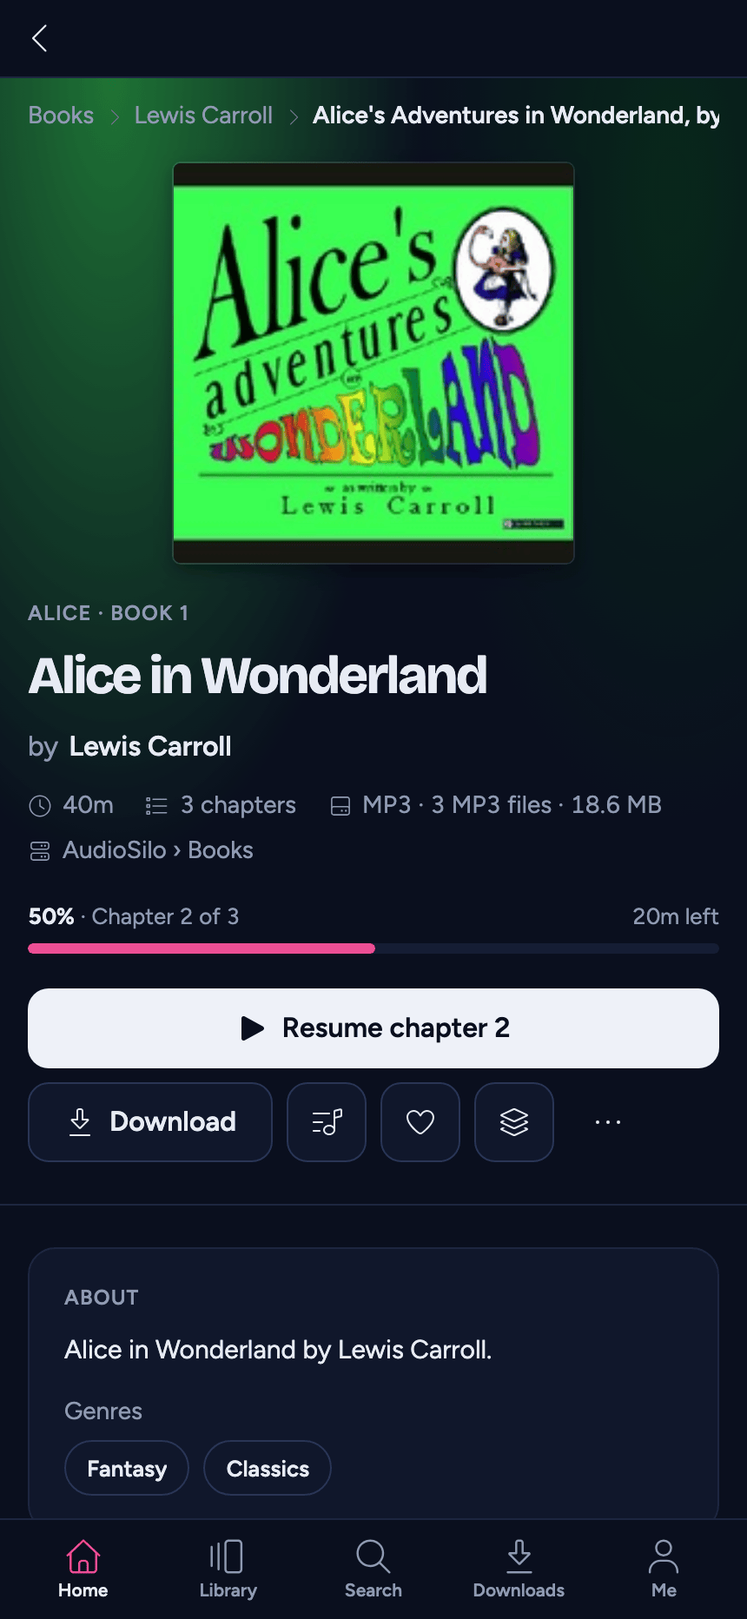
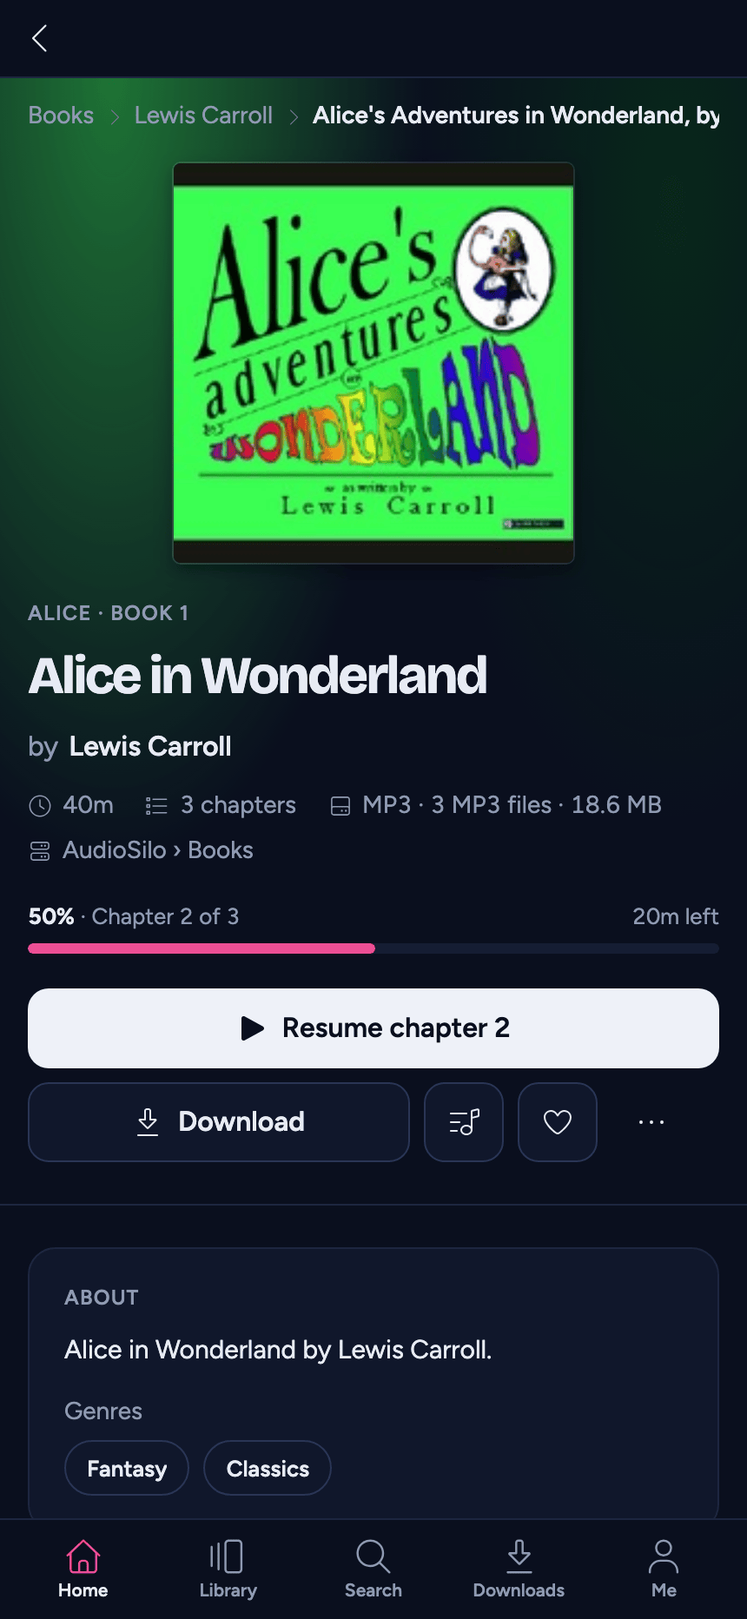
Docs for batch M: player fixes and CORS-mode media on web
Phone book page: Add to collection in More; Library Books: Clear and a chosen
genre or tag lead the chip row; the empty collection hint; the dock names a
chapterless book once; a failed start's toast and its reason; relative times
in the app's language on native; Voice boost for another server's stream.
Developer docs: CORS mode for cross-origin covers and audio (corsModeFor,
CoverImage), PlaybackStartError and playFailedToast, the placing guard, the
Hermes relative-time strings, Home shelf skeletons, the measured mini inset,
the bounded queue-drop read. Regenerated phone-book-detail and phone-you-stats.

diff --git a/docs-developers/frontend/testing.md b/docs-developers/frontend/testing.md
@@ -339,13 +339,13 @@ Co-located suites exist for:
 | Account and Settings | `src/components/account/account-model.test.ts` (the pairing countdown, `canRevoke`, `lastSeen`), `account-section.test.tsx`, `devices-section.test.tsx`, `pair-device-card.test.tsx`, `password-card.test.tsx`, `connections-section.test.tsx`, `use-api-keys-manager.test.tsx`, `use-sign-out.test.tsx`; `src/components/settings/settings-model.test.ts`, `settings-content.test.tsx` |
 | You | `src/components/you/you-model.test.ts`, `you-hub.test.tsx`; `stats/stats-model.test.ts`, `stats-format.test.ts`, `stats-section.test.tsx`, `listening-clock.test.tsx`; `year/year-model.test.ts`, `year-copy.test.ts`, `year-params.test.ts`, `story-model.test.ts`, `story-stage.test.tsx`, `use-story-player.test.tsx`, `use-share-card.test.tsx`, `share-card.test.ts`, `share-card.web.test.ts`, `year-probes.test.ts` (`findStoryYears`), `year-section.test.tsx`, `year-story-screen.test.tsx` |
 | Connect | `src/components/connect/connect-model.test.ts` (`repairPlan`, `readyLine`, `reconnectAddress`), `finish-connect.test.ts`, `connect-frame.test.tsx`, `connect-start.test.tsx`, `sign-in-step.test.tsx`, `ready-screen.test.tsx`, `use-ready-summary.test.tsx`, `connect-routes.test.tsx`, `route-ready.test.tsx`, `cover-patterns.test.ts`; `src/components/layout/reconnect-banner.test.tsx` |
-| Player UI | `src/components/player/sleep-timer-button.test.tsx`, `sleep-sheet-model.test.ts`, `grace-card.test.tsx`, `speed-button.test.tsx`, `speed-model.test.ts`, `effects-model.test.ts`, `effects-settings.test.tsx`, `end-credits-logic.test.ts`, `end-credits.test.tsx`, `book-ended-listener.test.tsx`, `seek-bar.test.tsx`, `seek-texture.test.ts`, `book-timeline.test.tsx`, `book-timeline-model.test.ts`, `transport-controls.test.tsx`, `undo-chip.test.tsx`, `use-time-left.test.tsx`, `player-shortcuts.test.ts`, `shortcuts-dialog.test.tsx`, `player-view.test.tsx` (the layouts), `player-parts.test.tsx`, `player-sheet-host.test.tsx` (one active host), `mini-player.test.tsx`, `companion/companion-model.test.ts`, `companion/companion-panels.test.tsx`, `companion/companion.test.tsx`, `companion/use-companion-data.test.tsx`, `end-of-book.test.ts`, `start-book.test.ts`, `end-credits-route.test.tsx`, `player-route.test.tsx`, `player-view-model.test.ts`, `place-sync.test.ts`, `playing-target.test.tsx`, `rating-stars.test.tsx`, `use-player-shortcuts.test.ts`, `use-playing-pins.test.ts`, `use-playing-segment.test.ts`, `companion/reveal-listener.test.tsx` (natural crossings only), `book-progress.test.tsx`, `transport.test.ts` (the shared previous/next and chapter-segment math of the full player and the docked bar), `use-listening-position.test.tsx`, `play-route.test.ts` (where a play or a jump goes), `use-book-rating.test.tsx` |
+| Player UI | `src/components/player/play-failed.test.ts` (the start-failure toast's reason), `sleep-timer-button.test.tsx`, `sleep-sheet-model.test.ts`, `grace-card.test.tsx`, `speed-button.test.tsx`, `speed-model.test.ts`, `effects-model.test.ts`, `effects-settings.test.tsx`, `end-credits-logic.test.ts`, `end-credits.test.tsx`, `book-ended-listener.test.tsx`, `seek-bar.test.tsx`, `seek-texture.test.ts`, `book-timeline.test.tsx`, `book-timeline-model.test.ts`, `transport-controls.test.tsx`, `undo-chip.test.tsx`, `use-time-left.test.tsx`, `player-shortcuts.test.ts`, `shortcuts-dialog.test.tsx`, `player-view.test.tsx` (the layouts), `player-parts.test.tsx`, `player-sheet-host.test.tsx` (one active host), `mini-player.test.tsx`, `companion/companion-model.test.ts`, `companion/companion-panels.test.tsx`, `companion/companion.test.tsx`, `companion/use-companion-data.test.tsx`, `end-of-book.test.ts`, `start-book.test.ts`, `end-credits-route.test.tsx`, `player-route.test.tsx`, `player-view-model.test.ts`, `place-sync.test.ts`, `playing-target.test.tsx`, `rating-stars.test.tsx`, `use-player-shortcuts.test.ts`, `use-playing-pins.test.ts`, `use-playing-segment.test.ts`, `companion/reveal-listener.test.tsx` (natural crossings only), `book-progress.test.tsx`, `transport.test.ts` (the shared previous/next and chapter-segment math of the full player and the docked bar), `use-listening-position.test.tsx`, `play-route.test.ts` (where a play or a jump goes), `use-book-rating.test.tsx` |
 | Library UI | `src/components/library/book-meta.test.ts`, `use-book-community.test.tsx`, `book-meta.render.test.tsx`, `book-tabs.test.ts`, `cover-frame.test.tsx`, `meta-gating.test.ts`, `entry-row.test.tsx`, `history-section.test.tsx`, `annotation-sections.test.tsx`, `download-control.test.tsx`, `transcode-note.test.tsx`, `book-cover.test.tsx`, `cover-pieces.test.tsx`, `cover-layout.test.ts`, `cover-wash.test.tsx`, `library-modes.test.ts`, `library-screen.test.tsx`, `use-queue-actions.test.tsx`, `tile-actions.test.tsx`, and under `books/` (`books-view`, `book-actions`, `list-columns`, `use-whole-library`), `collections/` (`collections-model`, `collection-dialogs`) and `modes/books-mode`; `src/components/player/use-play-book.test.tsx`; `src/components/layout/content-scope.test.tsx` |
 | Book page | `src/components/book/book-page-model.test.ts` (layout, primary action, chapter list, facts, Your listening), `book-details-model.test.ts`, `book-about.test.tsx`, `hero-actions.test.tsx`, `book-page.test.tsx` |
 | Bookmarks and notes | `src/api/bookmark-labels.test.ts`; `src/components/annotations/editor-model.test.ts` (what Save sends), `labels.test.ts`, `drift-marker.test.ts`, `use-book-place.test.ts`, `annotation-editor.test.tsx`, `annotation-rows.test.tsx`; `src/components/player/player-sheets.test.ts` (editor requests) |
 | Journal | `src/lib/listening-sessions.test.ts` (sessions, days), `use-day-label.test.tsx`, `use-infinite-queries.test.tsx`; `src/components/journal/merge-model.test.ts`, `diary-model.test.ts` (days, bar colours, drift matching), `journal-model.test.ts`, `use-journal-sources.test.tsx`, `journal-screen.test.tsx`, `journal-route-cold.test.tsx`, `export-collect.test.ts`, `export-format.test.ts`, `export-save.test.ts`, `export-save.web.test.ts`, `export-actions.test.tsx`, `use-journal-export.test.tsx` |
-| UI primitives | `src/components/ui/` - `animated-pressable`, `badge`, `breadcrumbs`, `button`, `confirm-dialog`, `cover`, `dialog`, `empty-state`, `icon-data` (validates every vendored SVG glyph), `input`, `notice`, `overlay` (root insets, `withFlatStyle`), `overlay-host`, `popover`, `progress-bar`, `progress-ring`, `row-surface`, `section-header`, `select`, `sheet`, `skeleton`, `slider`, `use-slider-control`, `switch`, `tabs`, `text`, `time-stepper`, `toast`, `touch-target`, `toggle-group` |
-| `src/lib` helpers | `account`, `alpha-sections`, `app-resume`, `auth-failure`, `base-url`, `batch-loader` (windows, chunks by count and size, per-chunk failures), `by-position`, `chapter-label`, `client-id`, `clipboard`, `content-key`, `cover-tint`, `dedup`, `fnv1a`, `format`, `hhmm`, `keyboard`, `keyboard-lift`, `known-servers`, `layout`, `map-limit`, `monogram`, `names`, `native-intent` (app links keep their encoding), `network`, `pairing`, `paths`, `progress-view`, `published`, `register-sw.web`, `rnw-button-fix`, `root-stack`, `same-origin`, `scroll-memory`, `secure-store`, `serial-queue`, `series-orderings`, `server-address` (the pick rule, `mergeAddresses`), `share`, `storage-migration`, `support`, `ticker`, `use-debounced-value`, `use-dom-id`, `use-latest`, `use-now`, `utils`, `when-active` |
+| UI primitives | `src/components/ui/` - `animated-pressable`, `badge`, `breadcrumbs`, `button`, `confirm-dialog`, `cover`, `cover-image.web` (the CORS attribute only cross-origin, `onError`), `dialog`, `empty-state`, `icon-data` (validates every vendored SVG glyph), `input`, `notice`, `overlay` (root insets, `withFlatStyle`), `overlay-host`, `popover`, `progress-bar`, `progress-ring`, `row-surface`, `section-header`, `select`, `sheet`, `skeleton`, `slider`, `use-slider-control`, `switch`, `tabs`, `text`, `time-stepper`, `toast`, `touch-target`, `toggle-group` |
+| `src/lib` helpers | `account`, `alpha-sections`, `app-resume`, `auth-failure`, `base-url`, `batch-loader` (windows, chunks by count and size, per-chunk failures), `by-position`, `chapter-label`, `client-id`, `clipboard`, `content-key`, `cors-mode` (`corsModeFor`), `cover-tint`, `dedup`, `fnv1a`, `format`, `hhmm`, `keyboard`, `keyboard-lift`, `known-servers`, `layout`, `map-limit`, `monogram`, `names`, `native-intent` (app links keep their encoding), `network`, `pairing`, `paths`, `progress-view`, `published`, `register-sw.web`, `rnw-button-fix`, `root-stack`, `same-origin`, `scroll-memory`, `secure-store`, `serial-queue`, `series-orderings`, `server-address` (the pick rule, `mergeAddresses`), `share`, `storage-migration`, `support`, `ticker`, `use-debounced-value`, `use-dom-id`, `use-latest`, `use-now`, `utils`, `when-active` |
 | Generators (Node, not jest) | `scripts/gen-tokens.test.mjs` |
 
 The shared test helpers live outside that list, in `src/testing/`: the

diff --git a/docs-developers/frontend/book-page.md b/docs-developers/frontend/book-page.md
@@ -17,7 +17,7 @@ draw. The user-facing tour is [A book's page](/users/listening/book-page).
 | `book-page-model.ts` | Pure: `bookPageLayout`, `titleScale`, `heroSubtitle`, `primaryAction` / `primaryLabel`, `chapterList`, `rowAt`, `timelineStarts`, `placeLine`, `heroEyebrow`, `bookFacts`, `startedAt`, `listeningFigures` |
 | `book-tab-panel.tsx` | `BookTabPanel`: the active tab's panel (the tab row is the page's) |
 | `book-hero.tsx` | `BookHero`: the `CoverWash`, crumbs slot, eyebrow, title, subtitle, byline, facts, the place (or the finished badge and the stars), then the actions and footer slots |
-| `hero-actions.tsx` | `HeroActions`: the primary button, `DownloadControl`, the Up next menu, favourite, Add to collection, and `BookActionsMenu` with `omit` |
+| `hero-actions.tsx` | `HeroActions`: the primary button, `DownloadControl`, the Up next menu, favourite, Add to collection (in the menu when stacked), and `BookActionsMenu` with `omit` |
 | `book-crumbs.tsx` | `BookCrumbs`: the library, each folder above the book (links), the book's own folder or file name |
 | `book-chapters-tab.tsx` | `BookChaptersTab`: "The whole book" (`BookTimeline` + legend + axis) and the rows |
 | `book-details-tab.tsx` + `book-details-model.ts` | `BookDetailsTab`: the playback notice, the files table, the path; `fileRows`, `visibleFiles`, `playbackMode`, and the About card's `aboutContent`, `labelGroups` and `languageName` |
@@ -100,8 +100,10 @@ Both ways to play go through the app's one play path, `usePlayBook`
   (`seekBook`, or `goToTrack`) and plays on, or starts this book there in place
   (`startBookInPlace`).
 
-It rejects when the book can't start, and the page toasts
-`library.bookActions.playFailed`.
+It rejects when the book can't start (a `PlaybackStartError`, see
+[Playback](playback.md)), and the page toasts through `playFailedToast`:
+`library.bookActions.playFailed`, with the reason (the server can't be reached, or
+the audio didn't load) as the description.
 
 `HeroActions` lays the row out after the primary:
 
@@ -110,8 +112,8 @@ It rejects when the book can't start, and the page toasts
 | `DownloadControl` | - | an outline button per state: Download for offline, "N% · Cancel" with a `ProgressRing`, **Downloaded** (a menu with the size and Remove download), Retry download; disabled where this device can't keep the book |
 | Up next menu | `queue` | Play next (at position 0, with an Undo that puts it back where it was); Add to the end / Remove from Up next (`useQueueActions`) |
 | Favourite | - | ink, never pink |
-| Add to collection | `collections` | the book menu's dialog |
-| `BookActionsMenu` | its items' own | `omit={['play', 'queue', 'collect', 'download']}` leaves Mark as finished / not finished and More in this series; renders nothing when that leaves no item. For an admin whose book has generated characters or recaps it adds **Regenerate characters and recaps** (`extra`), then each active [player module's](state-and-data.md#player-modules-srcmodules) `bookActions` (none yet) |
+| Add to collection | `collections`, not stacked | the book menu's dialog; when stacked it is the menu's own item instead |
+| `BookActionsMenu` | its items' own | `omit` (`MENU_OMIT`, `['play', 'queue', 'collect', 'download']`) leaves Mark as finished / not finished and More in this series; stacked it keeps Add to collection too (`MENU_OMIT_PHONE` drops `'collect'`); renders nothing when that leaves no item. For an admin whose book has generated characters or recaps it adds **Regenerate characters and recaps** (`extra`), then each active [player module's](state-and-data.md#player-modules-srcmodules) `bookActions` (none yet) |
 | Generate characters and recaps | `useGenerate`'s `offer === 'generate'` | an outline button after the others (its own row when stacked), for an admin a Bridge can generate for (below) |
 
 **Generating characters and recaps** (Bridge Phase 1a, `src/components/bridge/`)
@@ -172,9 +174,10 @@ chapters found in the narration appear. The companion's empty Who's who and
 Story so far mount `GenerateOffer`, the same button and status.
 
 When the hero is stacked (under 600 measured), the primary takes its own row and the
-rest stay on **one** row: the download control gets `short` ("Download", just "Cancel"
-while it runs, its words ending in "..." rather than wrapping), and the menu opens as a
-sheet. The footer holds `DownloadProgress`, `GenerateStatus`, `GenerateCovered` (only while
+rest stay on **one** row: Add to collection moves into the menu, so the download slot
+(`flex-1`) takes the room the icon buttons leave, enough for its word on a phone; the
+download control gets `short` ("Download", just "Cancel" while it runs, its words ending
+in "..." rather than wrapping), and the menu opens as a sheet. The footer holds `DownloadProgress`, `GenerateStatus`, `GenerateCovered` (only while
 `covered`) and `TranscodeNote`.
 
 ## The tabs

diff --git a/docs-developers/frontend/playback.md b/docs-developers/frontend/playback.md
@@ -84,6 +84,14 @@ points:
 - The session token is already in the stream URL (`?token=` - see
   [State & data](state-and-data.md)), so the browser's own Range requests
   (seek/scrub) authenticate without headers.
+- **Another origin's stream loads in CORS mode.** Before every `src` (a load, a
+  file skip, the `swapTo` element) the engine sets the element's `crossOrigin`
+  from `corsModeFor` (`src/lib/cors-mode.ts`): `'anonymous'` for an http(s) URL
+  on another origin than the page, none for the player's own origin at `/web`,
+  the service worker's `_offline/` copies, `blob:` and `data:`. The server's
+  `cors_origins` grant that load, which ignores its
+  `Cross-Origin-Resource-Policy` (server#201;
+  [CORS](../server/api/index.md#cors)).
 - The **Media Session API** wires lock-screen/notification transport: metadata
   per track plus `play`, `pause`, `seekbackward`, `seekforward` handlers using
   the configured jump intervals. Those seeks go back **through the store**
@@ -93,6 +101,18 @@ points:
   gesture (a cold `/player` deep link) rejects with `NotAllowedError`; the engine
   settles its snapshot on `paused` and rethrows it as `AutoplayBlockedError`
   (`types.ts`), which the store's `startEngine` catches.
+- **A source that failed is a `PlaybackStartError('audio')`.** `playElement`
+  reads a `NotSupportedError` ("no supported sources"), or an `AbortError` from
+  an element that has errored, as a failed source: it settles the snapshot on
+  `error` and throws `PlaybackStartError` (`types.ts`) with reason `audio`. An
+  `AbortError` from a healthy element is a `play()` superseded by a pause or the
+  next source, so nothing is thrown.
+- **A load ignores its own first `timeupdate`.** Setting `src` queues a
+  `timeupdate` at `currentTime` 0 before any metadata. The engine marks the
+  element `placing` until `loadedmetadata` has made the start seek (or it fires
+  `seeked`) and ignores its `timeupdate`s meanwhile, so the snapshot keeps the
+  load's position; a source that then fails keeps it too (the place Retry
+  starts from), never the dead element's 0:00.
 - **A file advance is not a pause.** The element fires `pause` just before `ended`
   at a file's natural end; when another file follows, the engine ignores it (the
   store keeps its intent through the next file's load), so a chapter sleep timer
@@ -102,7 +122,8 @@ points:
 - Auto-rewind on resume: `play()` rewinds by up to `autoRewindMax` seconds
   scaled by how long the pause lasted.
 - **Voice boost** routes the element through one lazily-built Web Audio compressor
-  where the browser allows it (never Safari, same-origin sources only) - see
+  where the browser allows it (never Safari; only a source Web Audio can hear:
+  same-origin, or another origin's loaded in CORS mode) - see
   [Smart speed and Voice boost](audio-effects.md#web-one-web-audio-graph).
 - Every element listener is guarded by an `active()` check so a second element
   being buffered by `swapTo` can't drive the snapshot until the switch commits.
@@ -437,10 +458,21 @@ behaviours it gained, each with its own regression tests:
   listener somewhere they have never been. The spoiler gates wait it out through
   `selectPlacedBookKey` (`use-listening-position.ts`); without it, switching books
   could reveal the new book's characters by the old book's position;
-- **`startEngine`** (the play step of `playBook`/`toggle`/`retry`) catches only
+- **`startEngine`** (the play step of `playBook`/`toggle`/`retry`) treats
   `AutoplayBlockedError` - a browser refusing `play()` without a user gesture (a
-  cold `/player` deep link) - clears the play intent so the watchdog can't turn
-  it into `error`, and settles on `paused`;
+  cold `/player` deep link) - as a pause: it clears the play intent so the
+  watchdog can't turn it into `error`, and settles on `paused`. Every other
+  failure rejects as a **`PlaybackStartError`** saying why (`startFailure`):
+  `offline` when the loaded book streams from a server known to be unreachable
+  (`isReachable`; never for a downloaded book), else the engine's own reason
+  (the web engine's `audio`), else `unknown`, with the book's `connectionId`.
+  `playBook` rejects with it, and every start's caller toasts through
+  `playFailedToast` (`src/components/player/play-failed.ts`: the caller's title,
+  by default `library.bookActions.playFailed`, with the reason as the
+  description, `player.startFailed.offline` naming the server or
+  `player.startFailed.audio`; no description for `unknown`). `toggle` and
+  `retry` never reject (`startLoadedEngine` logs instead): the error state
+  already shows Retry and its error line;
 - the store registers **`onRemoteSeek`** on the engine, so the OS media controls'
   seeks go through `seekInTrack` and lower the resume floor and save like any other
   seek (web);

diff --git a/docs-users/listening/browsing.md b/docs-users/listening/browsing.md
@@ -84,7 +84,7 @@ If the Library has no library to show because a server didn't answer, it says "C
 Every book in the library, as a cover grid or a list:
 
 - **Filters** along the top: **Not started**, **In progress** and **Finished** (each with a count of how many books it would show), **Downloaded** (on this device), and a length: **Under 5 h**, **5 to 15 h** or **Over 15 h**. **Clear** takes them all off.
-- **Genre** and **Tag**, after the other filters, when a book in the library has one. Each opens a list of the library's genres (or tags) with how many books each would show, plus **Any genre** (**Any tag**) to drop it; the chip then names your pick (*"Fantasy"*). Capitals don't matter: "Sci-Fi" and "sci-fi" are one tag. Tapping a genre or tag on a [book's page](book-page.md#about-this-book) opens this view with it chosen.
+- **Genre** and **Tag**, after the other filters, when a book in the library has one. Once any filter is on, **Clear** moves to the front of the row, followed by the genre or tag you chose, so both stay in view on a narrow screen. Each opens a list of the library's genres (or tags) with how many books each would show, plus **Any genre** (**Any tag**) to drop it; the chip then names your pick (*"Fantasy"*). Capitals don't matter: "Sci-Fi" and "sci-fi" are one tag. Tapping a genre or tag on a [book's page](book-page.md#about-this-book) opens this view with it chosen.
 - **Sort** by **Recently added**, **Title**, **Author** or **Length**. Sorted by title, the books are grouped under letter headings, with an **A to Z** rail for jumping straight to a letter. A leading "The", "A" or "An" is skipped and accented letters file under their plain letter (*Émile* under E), and a book with no title is shown, and sorted, by its folder's name.
 - **Grid or list**. Your choice is remembered on that device, and the same choice applies to collections and Favourites. On a tablet or computer the list has columns for the narrator, the length and your progress.
 
@@ -145,7 +145,7 @@ Collections are lists of books you put together yourself: "Road trip", "For the 
 
 Collections belong to a server rather than to one library, so in this section the picker chooses a **server**.
 
-To add a book, open its [book menu](#the-book-menu) and choose **Add to collection...**. The dialog lists your collections, so you can add the book to several at once, take it out of one, or **Create and add** a new one there and then.
+To add a book, open its [book menu](#the-book-menu) and choose **Add to collection...**, or use **Add to collection** on its [page](book-page.md#listening-and-the-buttons). The dialog lists your collections, so you can add the book to several at once, take it out of one, or **Create and add** a new one there and then. A collection with nothing in it yet says *"Nothing in this collection yet"* and reminds you of the same two ways in.
 
 ![A collection's page: its name, description and total length, the owner's buttons, and its books](/img/screenshots/web-player/collection.png)
 

diff --git a/docs-developers/contributing/documentation.md b/docs-developers/contributing/documentation.md
@@ -78,6 +78,7 @@ mappings:
 | The end of a book, what plays next | [frontend/end-of-book.md](../frontend/end-of-book.md) + `/users/listening/end-of-book`, `/users/listening/up-next`, the Up next and downloads settings in `/users/listening/settings` |
 | The sleep timer | [frontend/sleep-timer.md](../frontend/sleep-timer.md) + `/users/listening/sleep-timer`, the Sleep settings in `/users/listening/settings` |
 | Playback engines / native module | [frontend/playback.md](../frontend/playback.md) (+ `/users/listening/playback` for lock-screen and headphone behaviour) |
+| How the web loads a server's covers and audio (`CoverImage`, `src/lib/cors-mode.ts`, the `<audio>` element's `crossOrigin`; server `cors`, `Cross-Origin-Resource-Policy`) | [frontend/playback.md](../frontend/playback.md#web-engine-servicewebts) + [overview.md](../frontend/overview.md#styling-conventions) (`CoverImage`) + [audio-effects.md](../frontend/audio-effects.md#web-one-web-audio-graph) (what Voice boost can route) + [api/index.md CORS](../server/api/index.md#cors) + [auth-and-security.md](../server/auth-and-security.md#transport-hardening) + [cross-repo-contract.md §12](../architecture/cross-repo-contract.md#12-cors-for-web-development) (after the workspace `CROSS-REPO.md` §12) |
 | Smart speed, Voice boost, time saved (`effects.ts`, `time-saved.ts`, `effects-settings.tsx`, the Android `effects/` processors, `VoiceBoostTap.swift`, `VoiceBoostDSP.swift`) | [frontend/audio-effects.md](../frontend/audio-effects.md) (+ [frontend/book-page.md](../frontend/book-page.md) for `smartSpeedSaved`) + `/users/listening/full-player` (Smart speed and Voice boost), the Playback settings in `/users/listening/settings`, the Your listening row in `/users/listening/book-page` + the `web-player/phone-speed-sheet.png`, `settings.png` and `phone-settings.png` screenshots |
 | CarPlay, Android Auto (`src/car/`, the module's car code, `plugins/withCarPlay.js`), the after-first-unlock token store, the iOS widgets and Live Activity (`src/widgets/`) | [frontend/native-integrations.md](../frontend/native-integrations.md) (+ [testing.md](../frontend/testing.md#native-checks) for how to run them) + `/users/listening/in-the-car`, `/users/listening/mobile-apps` (Availability, In the car, widgets), `/users/listening/sleep-timer` (the Live Activity). The web can't show these surfaces: device screenshots, when there are any, are added by hand to the manifest |
 | Connection ids, the identity migration (`src/lib/connection-id.ts`, `src/lib/identity-migration.ts`, a new document keyed by a connection id) | [frontend/state-and-data.md](../frontend/state-and-data.md#connection-identity-server_iduser_id) (+ `ID_DOCUMENTS` when a new document is keyed by a connection id) |

diff --git a/docs-developers/architecture/cross-repo-contract.md b/docs-developers/architecture/cross-repo-contract.md
@@ -152,7 +152,8 @@ client side in [State & data](../frontend/state-and-data.md#bookmarks-notes-and-
 header-only (`bearerToken(r, false)`), so tokens never ride the query string where
 they could leak into access logs or Referer headers.
 **Frontend:** `client.ts` `mediaTokenQuery()` → `coverUrl()`/`streamUrl()`. Native
-also sends the header (belt-and-braces); web relies solely on the query param.
+also sends the header (belt-and-braces); web relies solely on the query param (a web
+cover is a plain `<img>`, `CoverImage`, which can't send one).
 
 **Cover thumbnails** ride the same path: `GET /libraries/{id}/cover?size=160|320|640`
 (capability `cover_sizes`) is a JPEG of the same art with an `ETag` of size + art
@@ -436,12 +437,23 @@ For an allowed origin the server also allows `Range` and exposes
 `Retry-After` and the OPML export's `X-OPML-*` counts (Phase 2d-2), with what
 an older server means for the player: [CORS](../server/api/index.md#cors).
 
-Covers and audio are no-cors loads, which CORS never covers. With
+**Media for a player on another site.** The web player loads another origin's
+covers, artwork and audio in CORS mode: `corsModeFor` (`src/lib/cors-mode.ts`)
+gives `crossOrigin="anonymous"` for an http(s) URL cross-origin to the page, and
+nothing for the page's own origin (the player at `/web`), the service worker's
+`_offline/` copies, `blob:` and `data:`. `CoverImage` (`cover-image.web.tsx`, a
+plain `<img>`) and the `<audio>` element (`service.web.ts`, set before every
+`src`) apply it. The server's `cors` middleware answers an allowed `Origin` on
+media as on any route (`206` and `401` included), so `cors_origins` governs
+them, and a CORS-mode stream is one Web Audio can hear (Voice boost). CORS mode
+ignores CORP, so this also works against a server older than 2.4.1. An older
+player loads media no-cors, which CORS never covers: for it, with
 `cors_origins` set, every authenticated media answer is
-`Cross-Origin-Resource-Policy: cross-origin` (from 2.4.1), so a player on
-another site shows covers and plays audio; an older server's `same-site` makes
-the browser block its covers. Media takes only an explicit token, never a
-cookie, which is why that is safe
+`Cross-Origin-Resource-Policy: cross-origin` (from 2.4.1); before that a
+server's `same-site` made the browser block the covers. CORP stays
+`cross-origin` until the server narrows it once CORS-mode players have shipped
+(server#201's second half). Media takes only an explicit token, never a
+cookie, which is why both are safe
 ([Transport hardening](../server/auth-and-security.md#transport-hardening)).
 
 **A change requires:** nothing structural - just remember self-signed TLS (the

diff --git a/docs-developers/server/api/index.md b/docs-developers/server/api/index.md
@@ -589,7 +589,8 @@ The two lists are the consts `corsAllowHeaders` and `corsExposeHeaders`
 (`internal/api/middleware.go`). `Range` is there for a script's fetch of a
 stream with the `Authorization` header: the player's episode probe sends
 `Range: bytes=0-0` with its token, so cross-origin it is always preflighted
-(an `<audio>` element's own seeks are no-cors and need nothing). The exposed
+(an `<audio>` element's own Range requests come from the browser and are
+never preflighted). The exposed
 headers are `Retry-After` where a route sends one (the discovery and OPML
 budgets, a busy transcode, an episode on its way; the general rate limit and
 the request timeout send none) and the OPML export's counts, so a
@@ -597,11 +598,21 @@ cross-origin web player reads them as the `/web` player and native apps
 always could. A denied or absent origin gets no CORS header but `Vary`, and a
 server with `cors_origins` unset gets none at all.
 
-CORS never covers an `<img>` cover or an `<audio>` stream: those are no-cors
-requests with no `Origin`. What lets a player on another site load them is the
-media answer's `Cross-Origin-Resource-Policy`, which is `cross-origin` on every
-authenticated media answer once `cors_origins` is set (from 2.4.1; before, it was
-`same-site` and the browser blocked the covers). See
+Covers and audio depend on how the player loads them. The web player loads
+another origin's covers, artwork and audio in **CORS mode**
+(`crossOrigin="anonymous"` on the `<img>` and the `<audio>` element, only when
+the URL is cross-origin to the page; server#201): the request carries
+`Origin`, and the server's CORS layer answers it on media like any other route
+(a `206` and a `401` included), so `cors_origins` decides whether a player on
+another site shows covers and plays audio, and Web Audio (Voice boost) can
+hear the stream. CORS mode ignores `Cross-Origin-Resource-Policy`. The player
+at `/web` is same-origin and sets no attribute. An older player loads them as
+no-cors requests with no `Origin`, which CORS never covers: what lets those
+load is the media answer's `Cross-Origin-Resource-Policy`, which is
+`cross-origin` on every authenticated media answer once `cors_origins` is set
+(from 2.4.1; before, it was `same-site` and the browser blocked the covers). It
+stays `cross-origin` until shipped players load in CORS mode, then the server
+can narrow it (server#201's second half). See
 [Transport hardening](../auth-and-security.md#transport-hardening). An older server exposes nothing, so
 the player falls back to the body's `retry_after_seconds` for an episode
 fetch and reads the export counts as unknown.

diff --git a/docs-developers/frontend/overview.md b/docs-developers/frontend/overview.md
@@ -475,7 +475,9 @@ on. The view is
 `labelOptions` (the genre or tag choices, each counted the same way, the chosen one
 kept even at 0; shown by `books/label-filter.tsx` as a picker chip opening a dialog,
 and only when a loaded book has a label or the URL names one, so an older server
-shows no new control),
+shows no new control; with any filter on, `BooksMode` leads the chip row with Clear
+and then the chosen genre or tag chip, the unchosen pickers staying at the end, and
+re-keys the row by the chosen kinds so it starts scrolled to its start),
 `sortBooks` (title order folds accents and skips a leading article; an untitled book sorts, and shows, by its folder name through `bookTitle`), `letterGrid`
 for the title sort's letter heads and A-Z rail, and `lengthBucket` (the `len`
 chips, which Home's Short listens shelf reuses). The
@@ -618,9 +620,17 @@ ones a contributor trips over first.
   rendered by the root `ShellToastHost`) and `RowSurface` / `PressableRow` (the
   quiet hairline list row; the book page's chapter rows use it too). A primitive
   that renders its own text node reuses `EYEBROW_CLASS` for the eyebrow style.
-  Also there: `Sheet`, `Stepper`, `TimeStepper`, `EmptyState`, `SectionHeader`
-  and `AnimatedPressable` (a `className`-aware `Pressable` with a reduce-motion
-  aware press-in scale). To add another reusables component, generate it into a
+  Also there: `Sheet`, `Stepper`, `TimeStepper`, `EmptyState`, `SectionHeader`,
+  `AnimatedPressable` (a `className`-aware `Pressable` with a reduce-motion
+  aware press-in scale) and `CoverImage` (`cover-image.tsx`): every cover, artwork
+  or backdrop image from a server goes through it (`Cover`, `CoverBackdrop`,
+  `DiscoveryArtwork`), never expo-image directly. On native it is expo-image as
+  before (its disk cache, `source.headers`, `blurRadius`); on the web
+  (`cover-image.web.tsx`) a plain `<img>` (cover fit, lazy, async decode, a fade
+  in over `transition` ms, keyed by its URI), because expo-image's web image takes
+  no `crossOrigin`: it sets `crossOrigin="anonymous"` for another origin's URL
+  (`corsModeFor`, see [the web engine](playback.md#web-engine-servicewebts)) and
+  sends no headers (server image URLs carry `?token=`). To add another reusables component, generate it into a
   scratch directory with the reusables CLI and port it (the CLI would overwrite
   our same-named files) - the steps are in the frontend `CLAUDE.md`.
 - **Overlays portal.** Dialog, AlertDialog, Select, Popover, DropdownMenu and

diff --git a/docs-developers/frontend/audio-effects.md b/docs-developers/frontend/audio-effects.md
@@ -10,7 +10,7 @@ No wire change: both are client-side, and "time saved" is kept on the device.
 | | Android | iOS | Web |
 |---|---|---|---|
 | **Smart speed** | every book: a silence-skipping `AudioProcessor` | not yet ([why](#why-smart-speed-isnt-on-iphone-yet)) | not offered |
-| **Voice boost** | every book: a compressor/limiter `AudioProcessor` after Sonic | every book: an `MTAudioProcessingTap` per item | Web Audio compressor, trim and limiter, never in WebKit-only browsers, same-origin sources only |
+| **Voice boost** | every book: a compressor/limiter `AudioProcessor` after Sonic | every book: an `MTAudioProcessingTap` per item | Web Audio compressor, trim and limiter, never in WebKit-only browsers, same-origin or CORS-mode sources only |
 
 ## The Voice boost preset
 
@@ -146,12 +146,15 @@ frames. Until then `smartSpeedApplies` is Android only, the iOS engine accepts a
   and never torn down; `ctx.resume()` runs synchronously in that gesture.
 - Each `<audio>` element gets **one** `MediaElementAudioSourceNode` for life (a second
   `createMediaElementSource` throws), made only while the context runs (a suspended one would
-  silence the book) and only for a **same-origin** source (`sameOrigin`,
-  `src/lib/same-origin.ts`): a cross-origin element routed through Web Audio without CORS
-  plays zeroes. So a book streamed from another signed-in server, or through the Metro dev
-  server talking to a remote API, plays unboosted (a downloaded copy, served from the page's
-  own origin under `/_offline/`, is boosted); a load of such a source onto an already-routed
-  element swaps in a fresh element.
+  silence the book) and only for a source Web Audio can hear (`routable`): a
+  **same-origin** one (`sameOrigin`, `src/lib/same-origin.ts`: the player at `/web`, a
+  downloaded copy under `/_offline/`) or another origin's loaded in **CORS mode**
+  (`corsModeFor`, `src/lib/cors-mode.ts`; see
+  [the web engine](playback.md#web-engine-servicewebts)). A cross-origin element routed
+  through Web Audio without CORS plays zeroes, so anything else (a `data:` URL) plays
+  unboosted, and a load of such a source onto an already-routed element swaps in a fresh
+  element. A book streamed from another signed-in server, or a dev build on Metro talking
+  to a remote API, is boosted when that server's `cors_origins` lists the page's origin.
 - Switching off reconnects each source straight to the destination; nothing is rebuilt.
 
 ## Time saved (`src/playback/time-saved.ts`)

diff --git a/docs-users/listening/book-page.md b/docs-users/listening/book-page.md
@@ -37,8 +37,8 @@ Beside it:
 - **Download for offline** keeps the book on this device: see [Downloading a book](offline-downloads.md#downloading-a-book).
 - **Up next**: **Play next** puts the book at the top of your [Up next](up-next.md) queue, and **Add to the end of Up next** queues it last (or **Remove from Up next**, if it's already there). A note confirms it, with **Undo**.
 - **The heart**, to make it a [favourite](browsing.md#favourites).
-- **Add to collection**, which opens the same dialog as the [book menu](browsing.md#the-book-menu).
-- **More** (**...**): **Mark as finished**, or **Mark as not finished** for a book you've finished, and **More in this series**. On a phone it opens as a sheet from the bottom.
+- **Add to collection**, which opens the same dialog as the [book menu](browsing.md#the-book-menu). On a phone it's in the **More** menu instead, which leaves room for the download button's words.
+- **More** (**...**): **Mark as finished**, or **Mark as not finished** for a book you've finished, and **More in this series** (on a phone, **Add to collection...** too). On a phone it opens as a sheet from the bottom.
 
 If you're an admin and your server has a [Bridge](../admin/bridge.md) that can write characters and recaps, a book the community lacks characters or recaps for gets one more button, **Generate characters and recaps**, after the others (on a phone, on a row of its own). It opens a confirmation with what it will read and cost (while the book's chapters are still being [found in the narration](../admin/generating-characters-and-recaps.md#detect-chapters-without-characters-and-recaps), it says so and holds back: generate once that has finished, since it reuses the transcription; it does the same while the book's characters and recaps are being [shared with the community](../admin/bridge.md#share-with-the-community)); while the Bridge works on it, its progress shows under the buttons, with **Cancel**. For a book whose characters and recaps were generated on your server, **Regenerate characters and recaps** is in the **More** menu instead. When the community already has both, there's no button: a line under the buttons says "The community already has characters and recaps for this book", and **See characters** opens the book's **Characters** tab. See [Generating characters and recaps](../admin/generating-characters-and-recaps.md#which-books-offer-it).
 

diff --git a/docs-developers/frontend/end-of-book.md b/docs-developers/frontend/end-of-book.md
@@ -74,7 +74,8 @@ player left open on it closes once the app is active. See
   place saved; it stays unfinished, in Up next, with its download), then `advanceTo(next)`; on success the
   player replaces the credits once the app is active (`navigateWhenActive`, and not
   at all if the credits were closed meanwhile), on failure the countdown stops and a
-  toast says "Couldn't start Oathbringer. Try again." Play now shows busy while the book
+  toast says "Couldn't start Oathbringer. Try again." (`playFailedToast`, with the
+  reason `advanceTo`'s `onError` was told as its description, when there is one). Play now shows busy while the book
   starts. The countdown counts only the time its ticks saw, so a suspended app
   doesn't wake to a countdown that already ran out, and the still-playing countdown
   runs at the playing speed. View details opens the book in the shell underneath
@@ -131,7 +132,10 @@ in skipping finished series books too and in planning nothing when `/next` fails
 
 **Leaving the queue** is `dropFromQueue(connectionId, books)` (`queue-drop.ts`,
 framework-free): on a server the cache knows has `queue`, it looks the books up in
-that connection's queue (the cached one, else one read), removes each by the stored
+that connection's queue (a read within the last `QUEUE_DROP_FRESH_MS`, five minutes,
+answers as it is and is kept that long even with Up next closed, so starts in a row read
+`/queue` at most once a window; an older one is read again, so a book queued on another
+device meanwhile still leaves), removes each by the stored
 entry's own path and takes it out of the cached queue at once (so a second call for
 the same book, the credits opened on return after the end already dropped it, sends
 nothing), sends one remove even when two callers drop the same entry at once (a

diff --git a/docs-developers/frontend/i18n.md b/docs-developers/frontend/i18n.md
@@ -146,13 +146,23 @@ const rtf =
   typeof Intl !== 'undefined' && typeof Intl.RelativeTimeFormat === 'function'
     ? new Intl.RelativeTimeFormat(locale, { numeric: 'auto' })
     : null;
-// … rtf ? rtf.format(-n, unit) : `${n} ${unit}${n === 1 ? '' : 's'} ago`
+// … rtf ? rtf.format(-n, unit) : relativeFromStrings(n, unit, locale)
 ```
 
+Where there is no `Intl.RelativeTimeFormat` (Hermes), `relativeFromStrings`
+words the time from the app's own strings, `common.ago.*` in every language:
+`now`, plural `second`/`minute`/`hour`/`day`/`month`/`year` (`_one`/`_other`),
+and `yesterday`, `lastMonth` and `lastYear` for one day, month or year (as
+`numeric: 'auto'` says them), passing the locale as `lng`. So native relative
+times read in the app's language ("il y a 3 heures", "hier") with no
+dependency. Hermes has no `Intl.PluralRules` either, so i18next falls back to
+`_one` for 1 and `_other` otherwise, which is right for these counts (never 0,
+and a single day, month or year has its own words).
+
 `Intl.NumberFormat` and `Intl.DateTimeFormat` are safe to use directly (see
-`formatBytes`). If properly localised relative times/lists ever become a
-requirement on native, the sanctioned path is adding the `@formatjs/intl-*`
-polyfills plus locale data - not removing the guards.
+`formatBytes`). If localised lists (or plural rules beyond one/other) ever
+become a requirement on native, the sanctioned path is adding the
+`@formatjs/intl-*` polyfills plus locale data - not removing the guards.
 
 All `Intl` formatting should take its locale from `getLocale()` (or accept a
 locale parameter defaulting to it), so number/date formatting follows the
